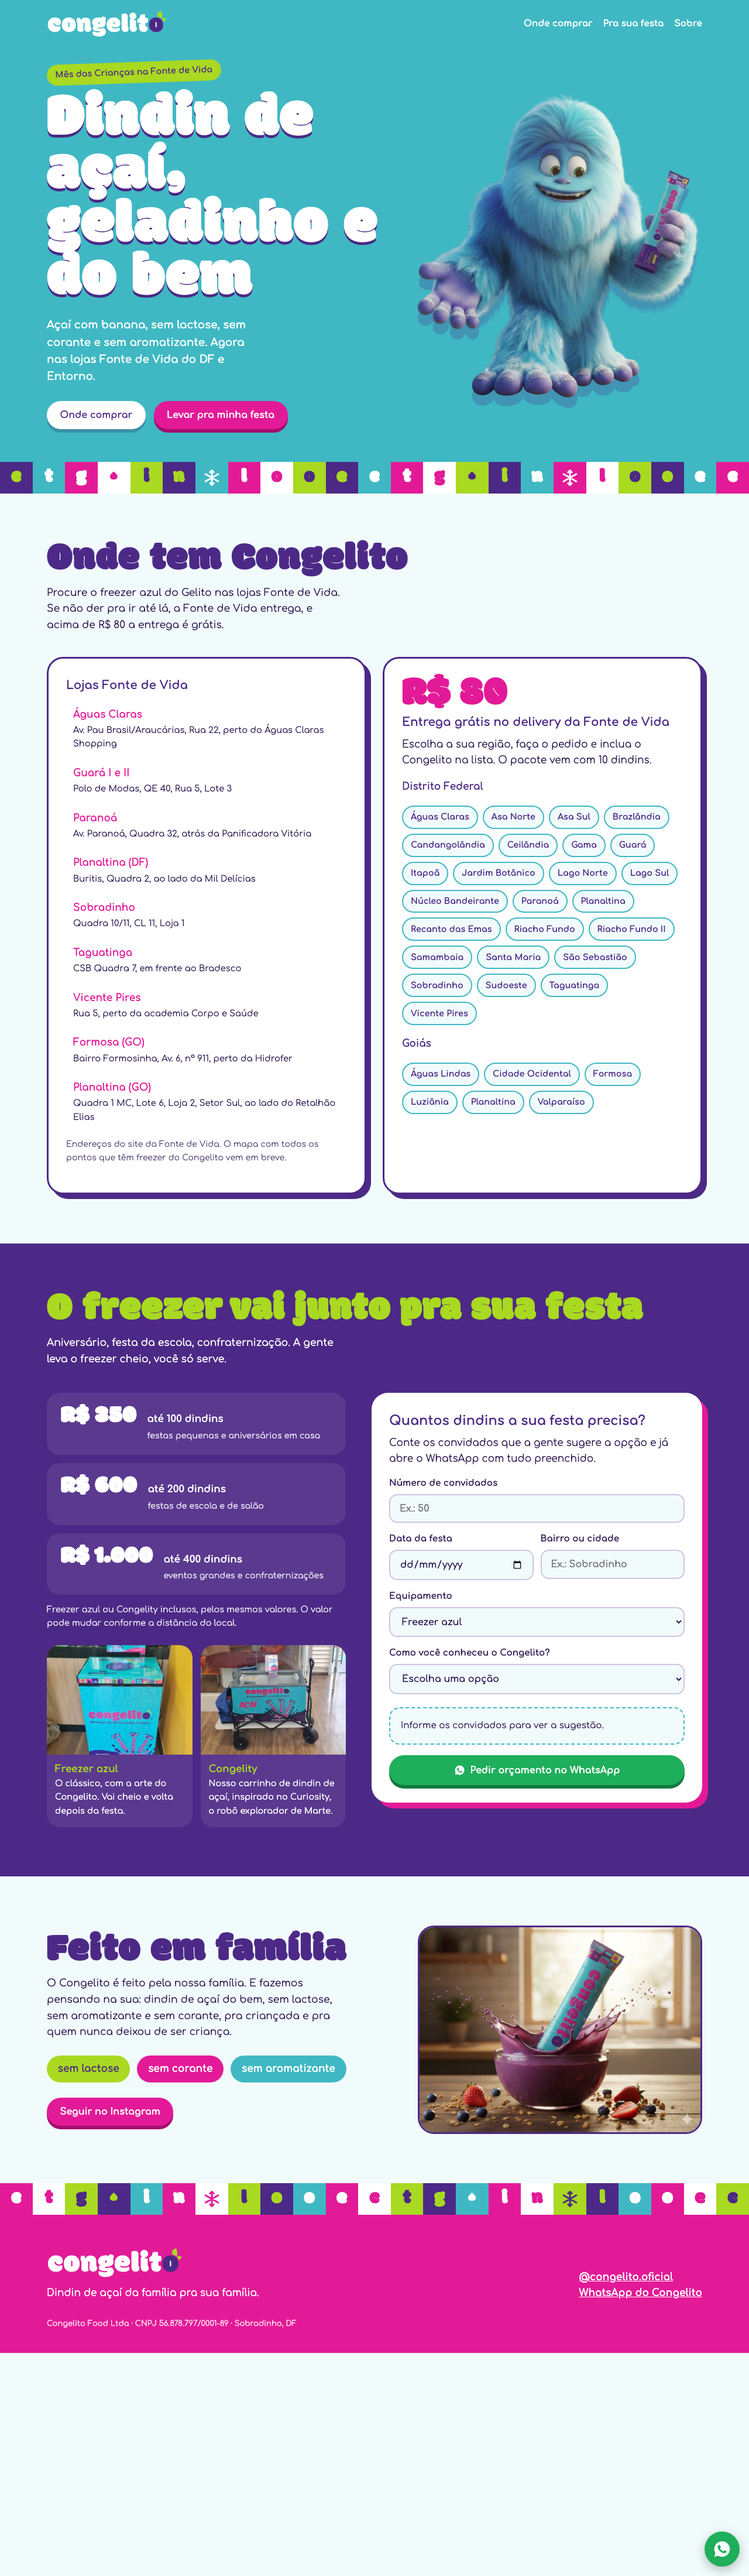
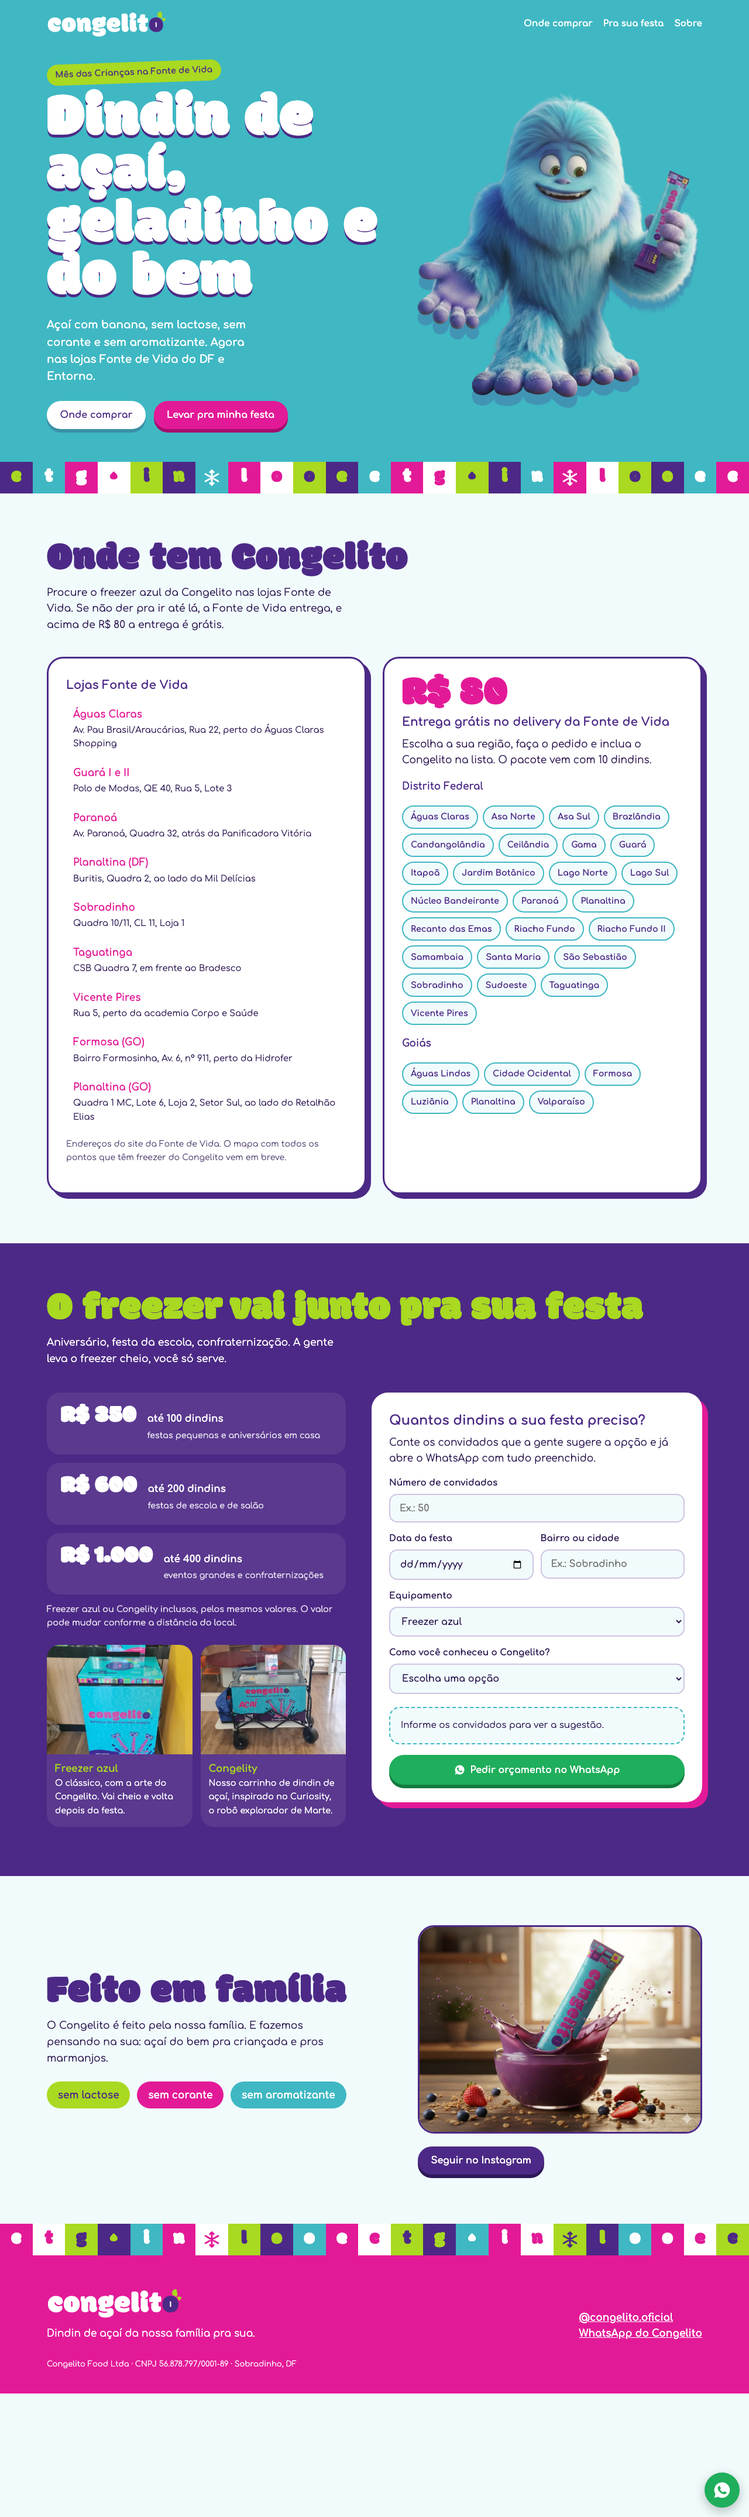
versão B vira a principal; A guardada em a.html

Changed region(s): [[0.0, 0.0, 1.0, 0.966], [0.3438, 0.0312, 0.4062, 0.0935], [0.4688, 0.0935, 0.5, 0.1247]]

diff --git a/a.html b/a.html
@@ -3,7 +3,7 @@
 <head>
 <meta charset="utf-8">
 <meta name="viewport" content="width=device-width, initial-scale=1">
-<title>Congelito · dindin de açaí (versão B)</title>
+<title>Congelito · dindin de açaí (versão A, arquivada)</title>
 <meta name="description" content="Dindin de açaí com banana, sem lactose, sem corante e sem aromatizante. Nas lojas Fonte de Vida do DF e Entorno, e no freezer da sua festa.">
 <meta property="og:title" content="Congelito · dindin de açaí">
 <meta property="og:description" content="Nas lojas Fonte de Vida e no freezer da sua festa.">
@@ -56,9 +56,6 @@ header{background:var(--turquesa)}
 .hero figure img{width:100%;max-height:520px;object-fit:contain;filter:drop-shadow(0 18px 0 rgba(76,41,134,.25))}
 @media (max-width:820px){.hero-grid{grid-template-columns:1fr;padding:8px 0 40px;gap:8px}.hero figure{max-width:200px;margin:0 auto;order:-1}}
 
-.hero .foto-hero img{max-height:none;border-radius:32px;border:5px solid var(--branco);aspect-ratio:4/5;object-fit:cover;object-position:50% 70%;
-  box-shadow:12px 12px 0 var(--acai);transform:rotate(2deg);filter:none!important}
-@media (max-width:820px){.hero .foto-hero{max-width:280px}.foto-hero img{transform:rotate(1.5deg)}}
 /* mosaico: o elemento-assinatura da marca */
 .mosaico{display:grid;grid-template-columns:repeat(auto-fill,minmax(54px,1fr));grid-auto-rows:54px;height:54px;overflow:hidden}
 .mosaico span{display:grid;place-items:center;font-family:"Modak",sans-serif;font-size:2.1rem;line-height:1}
@@ -168,7 +165,7 @@ footer{background:var(--rosa);color:var(--branco);padding:56px 0 40px}
         <a class="btn btn-rosa" href="#festa">Levar pra minha festa</a>
       </div>
     </div>
-    <figure class="foto-hero"><img src="assets/gelito-festa.webp" alt="O Gelito, mascote azul do Congelito, num parque de Brasília com um isopor do Congelito" width="768" height="1344"></figure>
+    <figure><img src="assets/gelito-pacote.webp" alt="O Gelito, mascote azul do Congelito, segurando um pacote de dindin de açaí" width="700" height="757"></figure>
   </div>
 </section>
 

diff --git a/index.html b/index.html
@@ -56,6 +56,9 @@ header{background:var(--turquesa)}
 .hero figure img{width:100%;max-height:520px;object-fit:contain;filter:drop-shadow(0 18px 0 rgba(76,41,134,.25))}
 @media (max-width:820px){.hero-grid{grid-template-columns:1fr;padding:8px 0 40px;gap:8px}.hero figure{max-width:200px;margin:0 auto;order:-1}}
 
+.hero .foto-hero img{max-height:none;border-radius:32px;border:5px solid var(--branco);aspect-ratio:4/5;object-fit:cover;object-position:50% 70%;
+  box-shadow:12px 12px 0 var(--acai);transform:rotate(2deg);filter:none!important}
+@media (max-width:820px){.hero .foto-hero{max-width:280px}.foto-hero img{transform:rotate(1.5deg)}}
 /* mosaico: o elemento-assinatura da marca */
 .mosaico{display:grid;grid-template-columns:repeat(auto-fill,minmax(54px,1fr));grid-auto-rows:54px;height:54px;overflow:hidden}
 .mosaico span{display:grid;place-items:center;font-family:"Modak",sans-serif;font-size:2.1rem;line-height:1}
@@ -165,7 +168,7 @@ footer{background:var(--rosa);color:var(--branco);padding:56px 0 40px}
         <a class="btn btn-rosa" href="#festa">Levar pra minha festa</a>
       </div>
     </div>
-    <figure><img src="assets/gelito-pacote.webp" alt="O Gelito, mascote azul do Congelito, segurando um pacote de dindin de açaí" width="700" height="757"></figure>
+    <figure class="foto-hero"><img src="assets/gelito-festa.webp" alt="O Gelito, mascote azul do Congelito, num parque de Brasília com um isopor do Congelito" width="768" height="1344"></figure>
   </div>
 </section>
 
